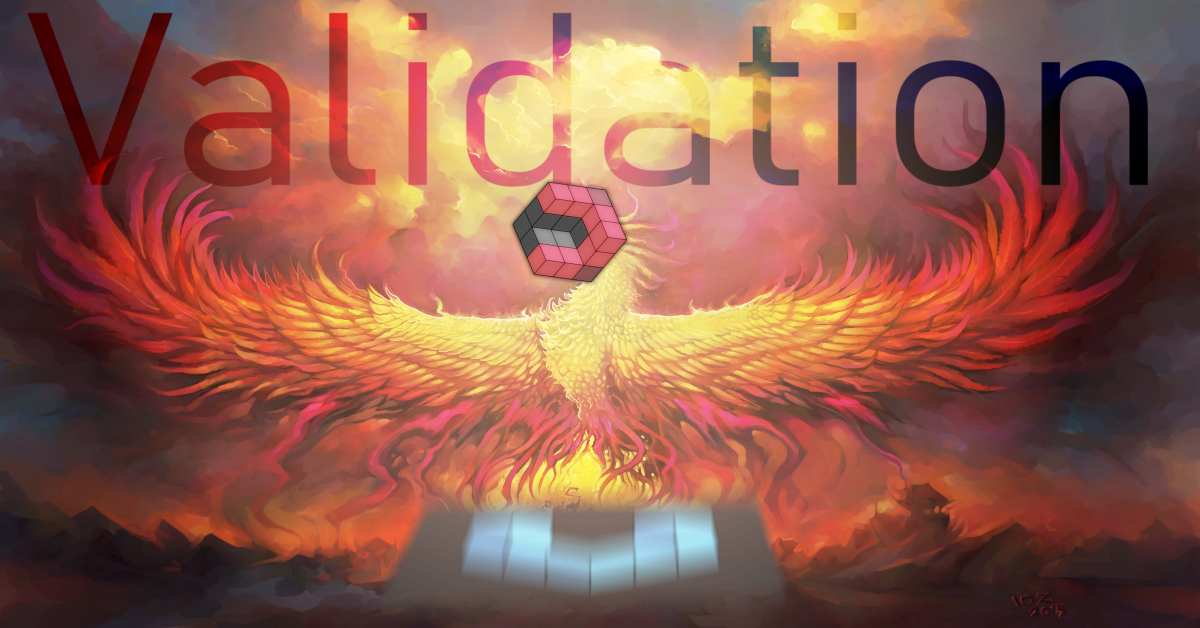
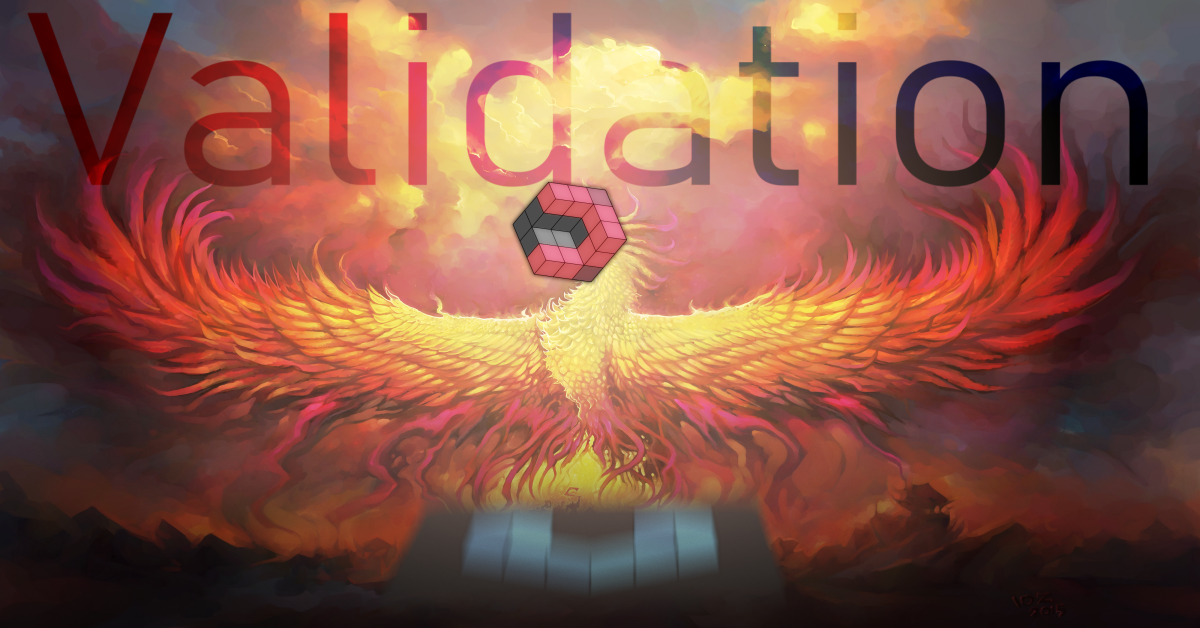
blog update

Changed region(s): [[0.0, 0.6656, 1.0, 1.0]]

diff --git a/fun/_posts/2021-2-8-reborn.md b/fun/_posts/2021-2-8-reborn.md
@@ -3,8 +3,38 @@ published: false
 layout: post
 title: Reborn
 summary: >-
-  FSharp.ValidationBlocks is now FSharp.Domain.Validation
+  FSharp.ValidationBlocks is no more, long live FSharp.Domain.Validation
 image: /assets/2021/reborn.png
 ---
 
 ![splash](/assets/2021/reborn.png)
+
+## F#: Nimble isn't optional
+
+For all the inconveniences that stem from F# being a <s>small</s> growing community, one huge advantage we have is being nimble. It allows for the language to evolve at a faster pace, which isn't just a luxury, it's a necessity.
+
+Few devs are willing to forego a super-mainstream programming language for one with less adoption, even when it is (in this one man's opinion) decidedly better, so imagine if F# were *only* marginally better, it literally wouldn't exist outside academic circles.
+
+This of course is both a blessing as a curse, as maintainers we certainly prefer when things require less maintenance. But we must not seek to settle, being a faster moving target than both .NET and C# is the only way we can thrive.
+
+## When life gives you lemons 🍋
+
+Within a couple of weeks it was suggested to me that I should rename the library **and** brought to my attention that `Block`, the main module of `FSharp.ValidationBlocks`, was going to be "assimilated".
+
+I had no plans to start 2021 making lemonade, after all I had plenty leftover from 2020, but here we are, rapid fire style:
+
+- Both Fable and non-Fable libs now both share the same namespaces 😎
+- `Block` has been deprecated in favor of `Box` 📦
+- `FSharp.ValidationBlocks` has been replaced with `FSharp.Domain.Validation`
+- All your **<u>existing code remains valid</u>**, with deprecation warnings 🎉
+- There's a [new repo](https://github.com/lfr/FSharp.Domain.Validation) for you to hopefully star ⭐
+- New [standard](https://www.nuget.org/packages/FSharp.Domain.Validation/0.9.78-rc2) and [Fable](https://www.nuget.org/packages/FSharp.Domain.Validation.Fable/0.9.78-rc2) release candidate packages for you to test 🧪
+- RC packages are .NET 5 but I can go back to netstandard 2.1 if you voice your need soon ⚠
+
+## Last but not least
+
+New branding, because we all know free libraries still need to sell, so I hope you like it!
+
+![oldnew](/assets/2021/oldnew.png)
+  
+Be sure to like, retweet or comment in the usual place, and until next time, stay nimble.
